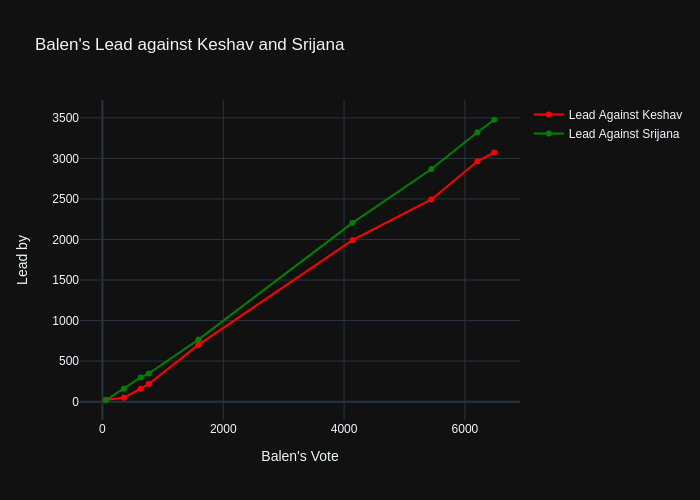
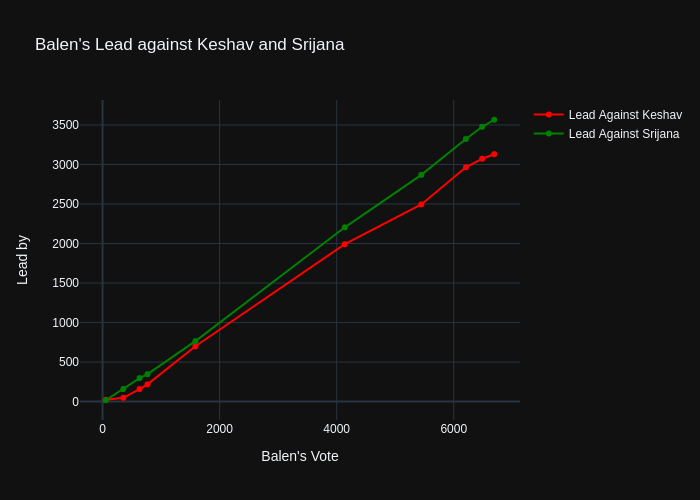
add new data

diff --git a/README.md b/README.md
@@ -1,4 +1,4 @@
-## Last Update:2nd Jestha @ 10 AM
+## Last Update:2nd Jestha @ 11:30 AM
 
 ## Balen's Lead against Keshav Sthapit and Srijana Singh
 ![ScreenShot](images/fig2.png)
